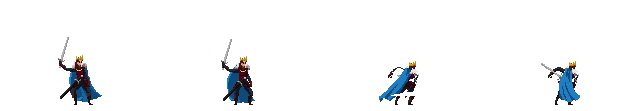
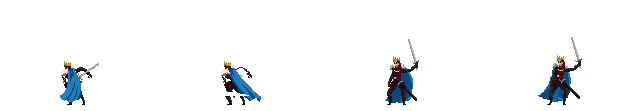
V 1.4
+ Attack, Jump and Fall Animations
+ Variable animation speeds based on the animation being played

diff --git a/js/classes.js b/js/classes.js
@@ -13,19 +13,6 @@ class Sprite{
         this.offset = offset
     }
 
-    animate(){
-        this.framesElapsed++
-
-        if (this.framesElapsed % this.framesHold === 0) {
-            if (this.framesCurrent < this.framesMax - 1) {
-                this.framesCurrent++
-            }
-            else {
-                this.framesCurrent = 0
-            }
-        }
-    }
-
     draw(){
         c.drawImage(
             this.image, 
@@ -40,14 +27,26 @@ class Sprite{
         )
     }
 
+    animateFrames() {
+        this.framesElapsed++
+    
+        if (this.framesElapsed % this.framesHold === 0) {
+          if (this.framesCurrent < this.framesMax - 1) {
+            this.framesCurrent++
+          } else {
+            this.framesCurrent = 0
+          }
+        }
+      }
+
     update(){
         this.draw()
-        this.animate()
+        this.animateFrames()
      }
 }
 
 class Fighter extends Sprite{
-    constructor({position, velocity, color, imageSrc, scale = 1, framesMax = 1, offset = {x:0, y:0}, sprites}){
+    constructor({position, velocity, imageSrc, scale = 1, framesMax = 1, offset = {x:0, y:0}, sprites}){
         super({
             position,
             imageSrc,
@@ -68,12 +67,11 @@ class Fighter extends Sprite{
             width: 100,
             height: 50
         }
-        this.color = color
         this.isAttacking
         this.health = 100
         this.framesCurrent = 0
         this.framesElapsed = 0
-        this.framesHold = 7
+        this.framesHold = 5
         this.sprites = sprites
 
         for (const sprite in sprites) {
@@ -83,22 +81,56 @@ class Fighter extends Sprite{
     }
 
     changeSprite(sprite){
+        if ((this.image === this.sprites.attack.image) && (this.framesCurrent < this.sprites.attack.framesMax - 1)) {
+            return
+        }
         switch(sprite){
             case 'idle':
-                if (this.image !== this.sprites.idle.image)
+                if (this.image !== this.sprites.idle.image) {
+                    this.framesHold = this.sprites.idle.framesHold
                     this.image = this.sprites.idle.image
                     this.framesMax = this.sprites.idle.framesMax
+                    this.framesCurrent = 0
+                }                
                 break
             case 'run':
-                this.image = this.sprites.run.image
-                this.framesMax = this.sprites.run.framesMax
+                if (this.image !== this.sprites.run.image) {
+                    this.framesHold = this.sprites.run.framesHold
+                    this.image = this.sprites.run.image
+                    this.framesMax = this.sprites.run.framesMax
+                    this.framesCurrent = 0               
+                }
+                break
+            case 'jump':
+                if (this.image !== this.sprites.jump.image) {
+                    this.framesHold = this.sprites.jump.framesHold
+                    this.image = this.sprites.jump.image
+                    this.framesMax = this.sprites.jump.framesMax
+                    this.framesCurrent = 0                  
+                }
+                break
+            case 'fall':
+                if (this.image !== this.sprites.fall.image) {
+                    this.framesHold = this.sprites.fall.framesHold
+                    this.image = this.sprites.fall.image
+                    this.framesMax = this.sprites.fall.framesMax
+                    this.framesCurrent = 0                    
+                }
+                 break
+            case 'attack':
+                if (this.image !== this.sprites.attack.image) {
+                    this.framesHold = this.sprites.attack.framesHold
+                    this.image = this.sprites.attack.image
+                    this.framesMax = this.sprites.attack.framesMax
+                    this.framesCurrent = 0                   
+                }
                 break
         }
     }
 
     update(){
         this.draw()
-        this.animate()
+        this.animateFrames()
         this.attackBox.position.x = this.position.x + this.attackBox.offset.x
         this.attackBox.position.y = this.position.y
         this.position.x += this.velocity.x
@@ -106,12 +138,14 @@ class Fighter extends Sprite{
 
         if (this.position.y + this.height + this.velocity.y >= 452){
             this.velocity.y = 0
+            this.position.y = 302
         }else{
             this.velocity.y += gravity
         }
     }    
     
     attack(){
+        this.changeSprite('attack')
         this.isAttacking = true
         setTimeout(() => {
             this.isAttacking = false

diff --git a/index.js b/index.js
@@ -40,18 +40,27 @@ const player = new Fighter({
         idle: {
             imageSrc: './images/player/Idle.png',
             framesMax: 10,
+            framesHold: 5,
         },
         run: {
             imageSrc: './images/player/Run.png',
             framesMax: 8,
+            framesHold: 6,
         },
         jump: {
             imageSrc: './images/player/Jump.png',
-            framesMax: 10,
+            framesMax: 3,
+            framesHold: 5,
+        },
+        fall: {
+            imageSrc: './images/player/Fall.png',
+            framesMax: 3,
+            framesHold: 5,
         },
         attack: {
-            imageSrc: './images/player/Attack1.png',
-            framesMax: 10,
+            imageSrc: './images/player/Attack2.png',
+            framesMax: 6,
+            framesHold: 5,
         },
     }
 });
@@ -80,18 +89,27 @@ const enemy = new Fighter({
         idle: {
             imageSrc: './images/enemy/Idle.png',
             framesMax: 8,
+            framesHold: 6,
         },
         run: {
             imageSrc: './images/enemy/Run.png',
             framesMax: 8,
+            framesHold: 6,
         },
         jump: {
             imageSrc: './images/enemy/Jump.png',
-            framesMax: 8,
+            framesMax: 2,
+            framesHold: 5,
+        },
+        fall: {
+            imageSrc: './images/enemy/Fall.png',
+            framesMax: 2,
+            framesHold: 5,
         },
         attack: {
             imageSrc: './images/enemy/Attack1.png',
-            framesMax: 8,
+            framesMax: 4,
+            framesHold: 8,
         },
     }
 });
@@ -158,24 +176,42 @@ function animate() {
 
     // Player
     player.velocity.x = 0
-    player.changeSprite('idle')
+
     if(keys.a.pressed && player.lastKey === 'a') {
         player.velocity.x = -5
         player.changeSprite('run')
     }else if(keys.d.pressed && player.lastKey === 'd') {
         player.velocity.x = 5
         player.changeSprite('run')
+    }else {
+        player.changeSprite('idle')
+    }
+    
+    // Player Jumping
+    if (player.velocity.y < 0) {
+        player.changeSprite('jump')
+    }else if (player.velocity.y > 0) {
+        player.changeSprite('fall')
     }
 
     // Enemy
     enemy.velocity.x = 0
-    enemy.changeSprite('idle')    
+
     if(keys.ArrowRight.pressed && enemy.lastKey === 'ArrowRight') {
         enemy.velocity.x = 5
         enemy.changeSprite('run')
     }else if(keys.ArrowLeft.pressed && enemy.lastKey === 'ArrowLeft') {
         enemy.velocity.x = -5
         enemy.changeSprite('run')
+    } else {
+        enemy.changeSprite('idle')
+    }
+
+    // enemy Jumping
+    if (enemy.velocity.y < 0) {
+        enemy.changeSprite('jump')
+    }else if (enemy.velocity.y > 0) {
+        enemy.changeSprite('fall')
     }
 
     // Hit Detection
